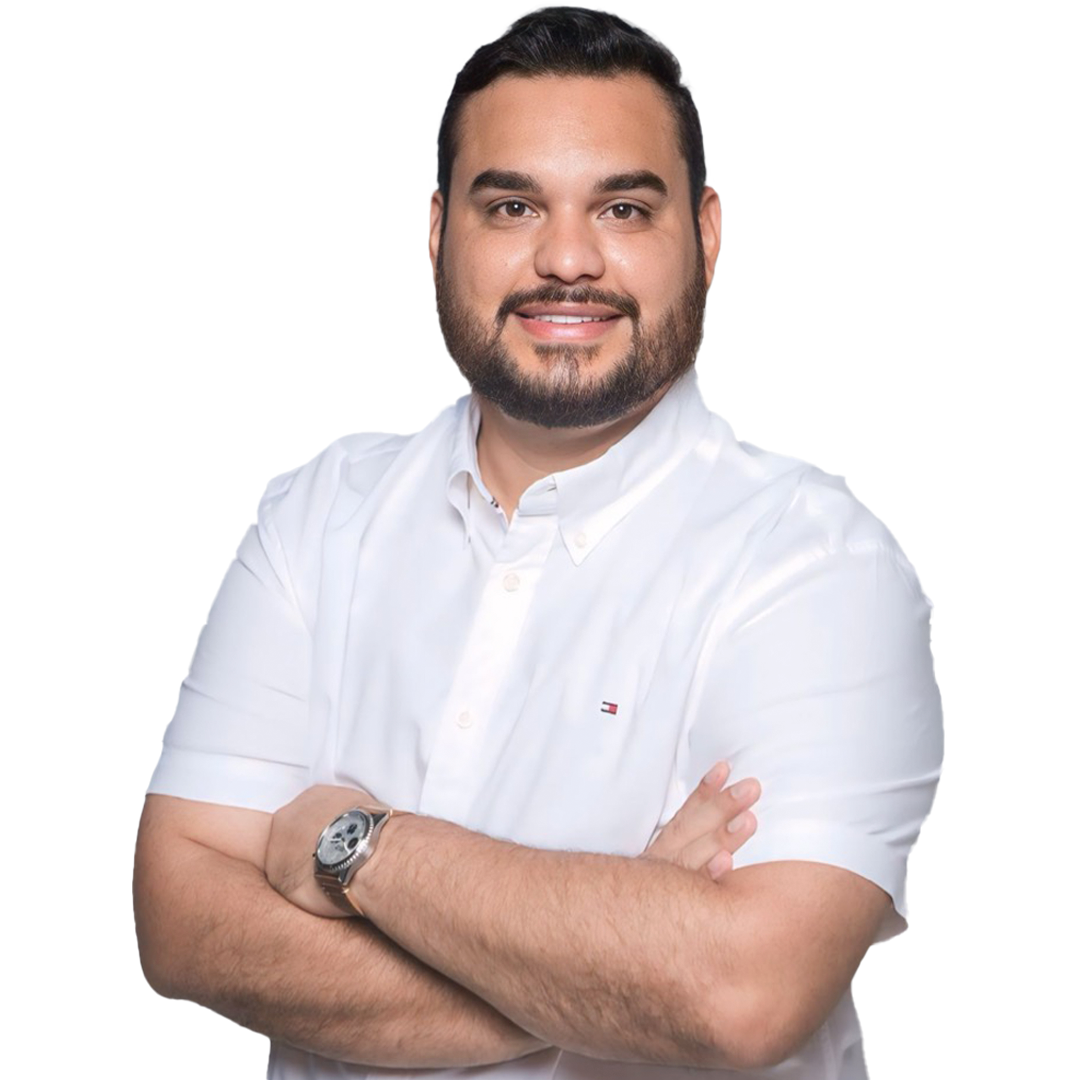
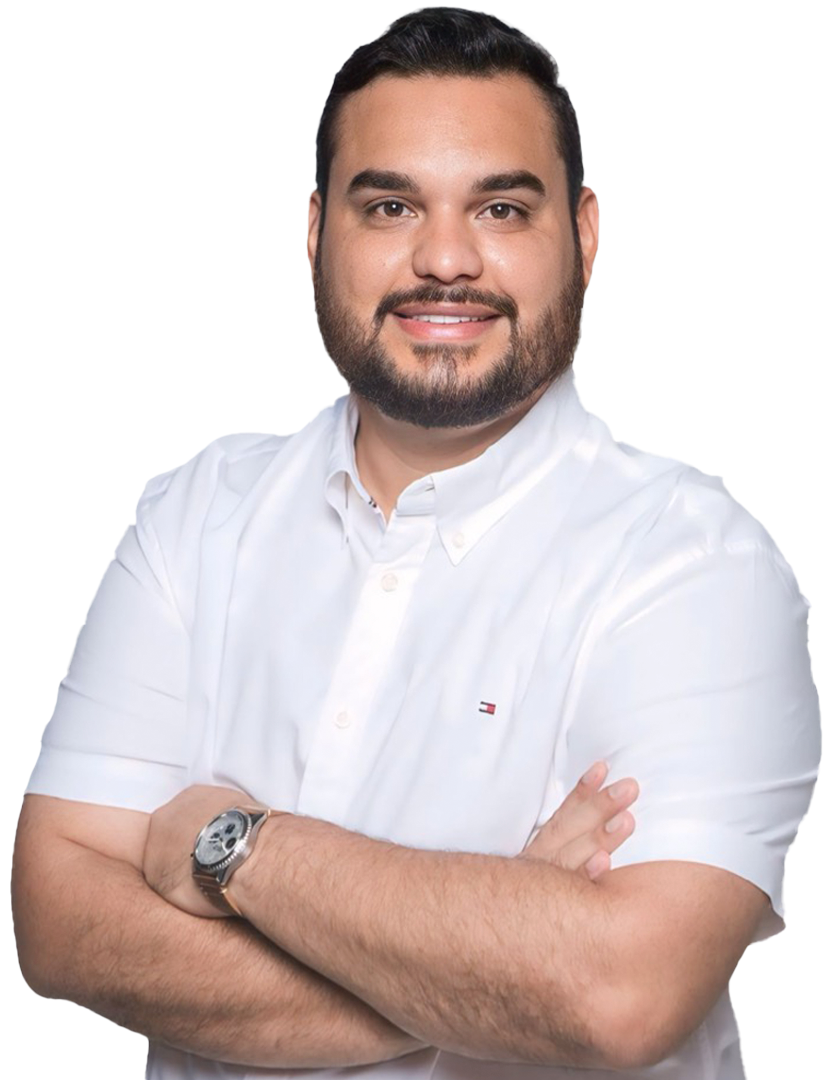
mudança na imagem inicial

diff --git a/src/app/components/inicio/inicio.component.html b/src/app/components/inicio/inicio.component.html
@@ -27,7 +27,7 @@
         <div class="right-section">
             <div class="background">
                 <div class="img">
-                    <img [ngSrc]="criancasImg" width="500" height="700" priority="">
+                    <img [ngSrc]="criancasImg" width="490" height="600" priority="">
                 </div>
             </div>
         </div>

diff --git a/src/app/components/inicio/inicio.component.ts b/src/app/components/inicio/inicio.component.ts
@@ -12,7 +12,7 @@ import { RedirectButtonComponent } from '../../shared/components/redirect-button
 export class InicioComponent {
 
   coracaoIcon: string = '../../../assets/coracao-icone.png'
-  criancasImg: string = '../../../assets/images/DSC_0764.JPG'
+  criancasImg: string = '../../../assets/images/FOTO-SANDRO-.png'
 
 
 }
